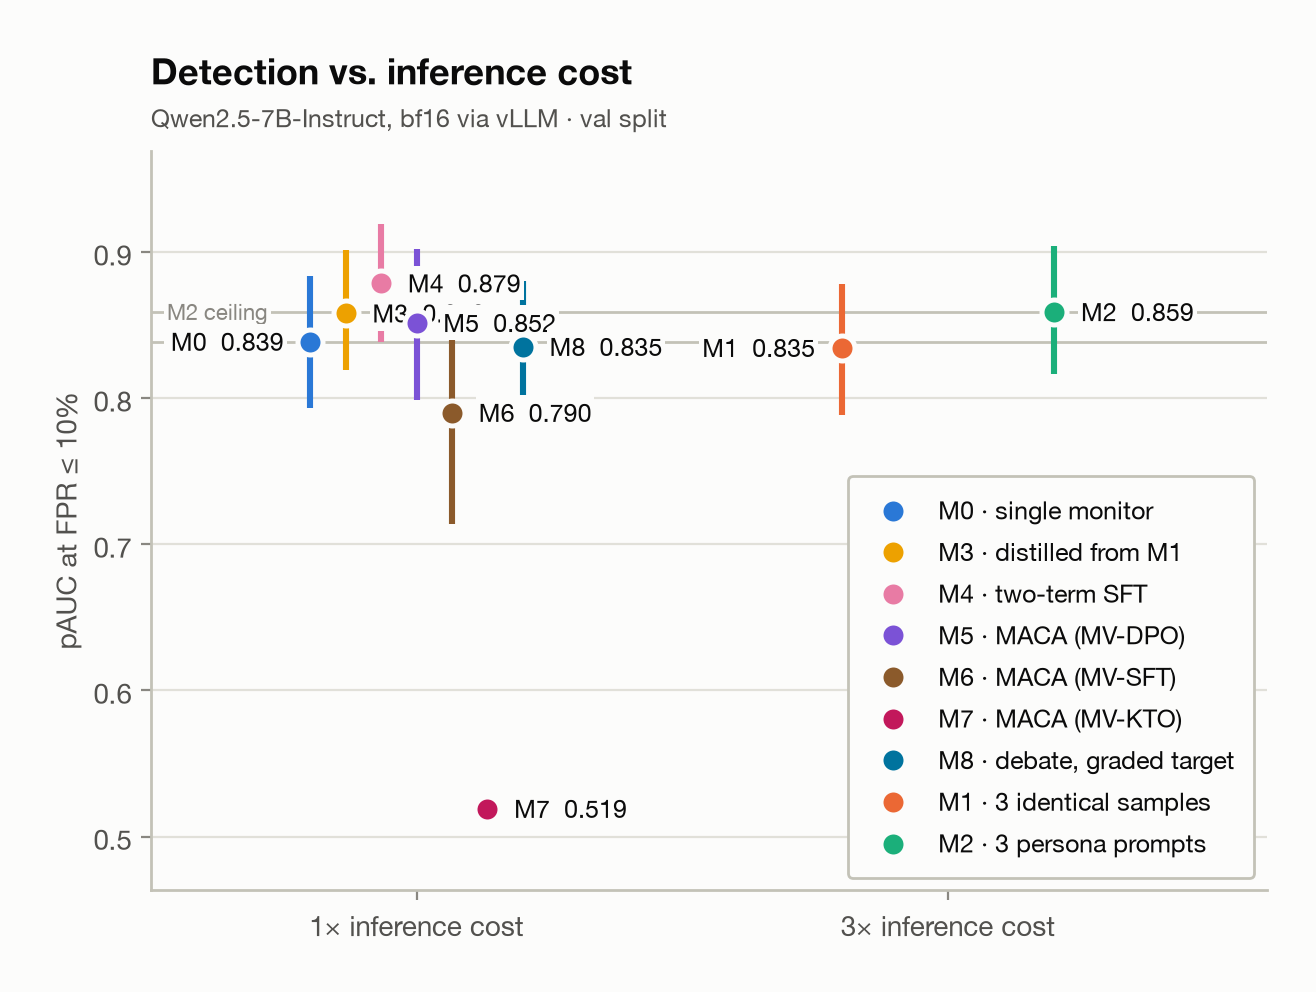
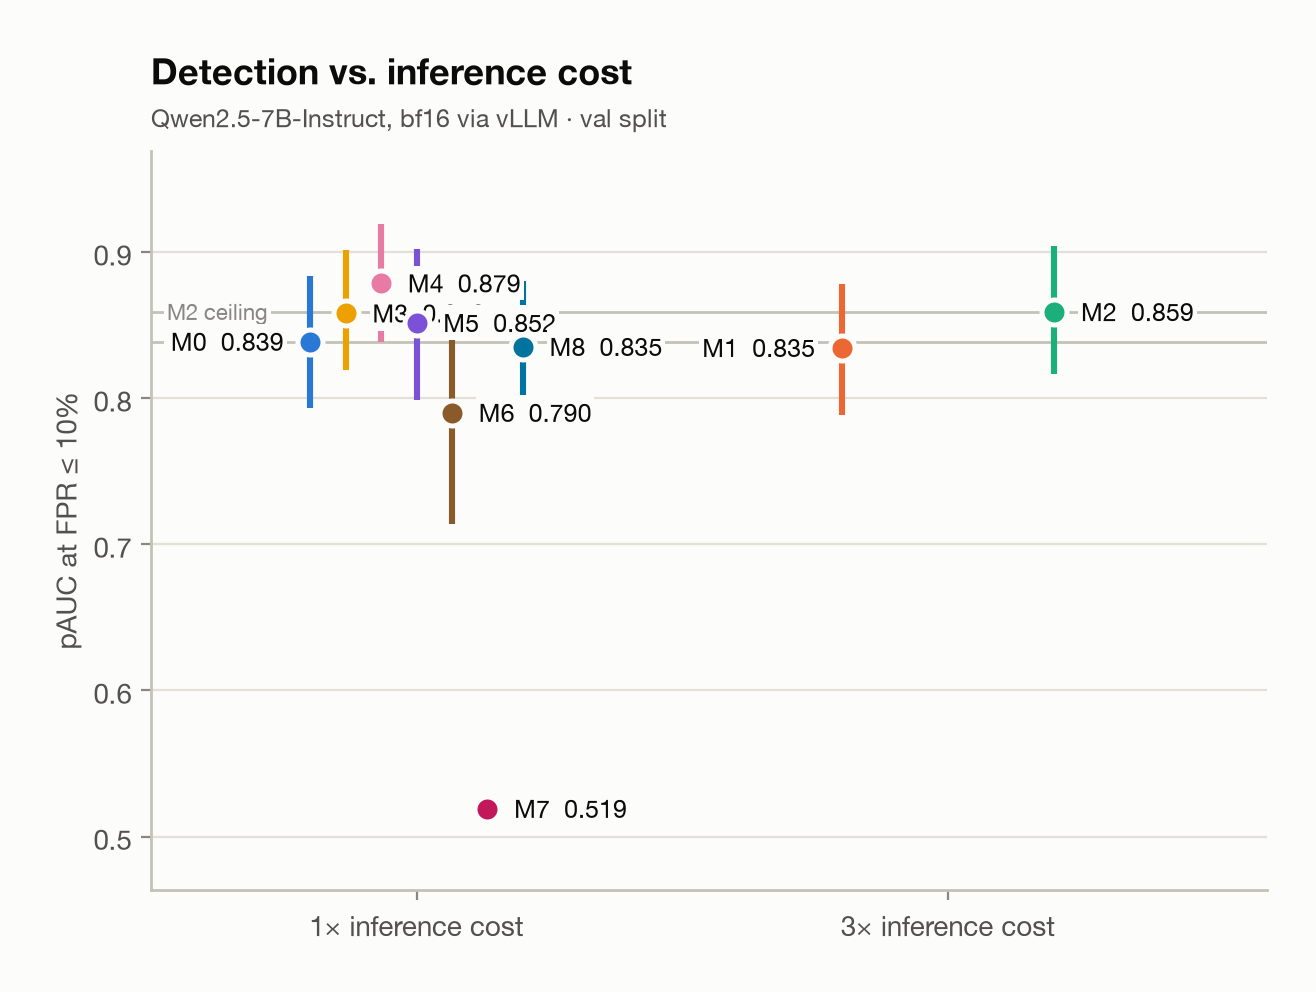
Cut the frontier to five headline arms for the write-up
Nine arms put six points in the 1x column, which buries the chart's one
comparison. The headline variant keeps both ensembles at 3x, the floor,
the winner and the published recipe -- the arms that make the "1x
reaches the 3x ceiling" claim. The other four belong to sections that
have their own figures.

The full nine-arm chart is still generated for the report, and the
subset prints "5 of 9 arms shown · full chart in the report" on its own
subtitle, since the figure travels into write-ups alone and a silent
subset would read as selection.

diff --git a/src/figures.py b/src/figures.py
@@ -78,6 +78,12 @@ ROC_PANELS = (
     ("Does MACA's vote survive distillation?", ("m5", "m7", "m8")),
 )
 
+#: The frontier's one job is "1x reaches the 3x ceiling". These five arms make
+#: that comparison and nothing else: both ensembles at 3x, the floor, the
+#: winner, and the published recipe it is contrasted with. Every other arm
+#: belongs to a later section that has its own figure.
+HEADLINE_ARMS = ("m0", "m1", "m2", "m4", "m5")
+
 #: Diverging pair for the ingredient-cost chart: gains and losses need opposite
 #: poles with a neutral zero, never one hue ramped by size.
 COST_GAIN = "#00739e"
@@ -650,7 +656,10 @@ def plot_metric_intervals(
 
 
 def plot_frontier(
-    summaries: dict[str, dict[str, Any]], path: Path, context: str
+    summaries: dict[str, dict[str, Any]],
+    path: Path,
+    context: str,
+    arms: Sequence[str] | None = None,
 ) -> Path:
     """Draw pAUC against inference cost -- the experiment's main figure.
 
@@ -662,11 +671,23 @@ def plot_frontier(
         summaries: Primary ``summarize`` rows keyed by arm.
         path: Destination file.
         context: Setup and slice description.
+        arms: Restrict to these arms, in ``HEADLINE_ARMS`` style. ``None``
+            draws every scored arm, which is the full-detail view for the
+            report -- nine points put six in the 1x column and the chart stops
+            making its one comparison legible.
 
     Returns:
         ``path``.
     """
     apply_style()
+    if arms is not None:
+        shown = {a: summaries[a] for a in arms if a in summaries}
+        # Say on the figure itself that arms were left out. It travels into
+        # write-ups on its own, where a silent subset would read as selection.
+        if len(shown) < len(summaries):
+            context = (f"{context} · {len(shown)} of {len(summaries)} arms shown"
+                       " · full chart in the report")
+        summaries = shown
     fig, ax = plt.subplots(figsize=(7.2, 4.8))
     positions = {1: 0.0, 3: 1.0}
     by_cost: dict[int, list[str]] = {}
@@ -937,12 +958,18 @@ def render_all(
     if len(primary) >= 2:
         metrics = plot_metric_intervals(primary_rows, out_dir / "metrics.png", context)
         frontier = plot_frontier(primary_rows, out_dir / "frontier.png", context)
+        headline = plot_frontier(
+            primary_rows, out_dir / "frontier_headline.png", context,
+            arms=HEADLINE_ARMS,
+        )
         comparison += [
             (f"figures/{metrics.name}",
              "pAUC and AUROC per arm with 95% bootstrap intervals."),
+            (f"figures/{headline.name}",
+             "pAUC against inference cost, headline arms only: does a 1× "
+             "trained arm reach the 3× ceiling?"),
             (f"figures/{frontier.name}",
-             "pAUC against inference cost. The question is whether a 1× trained "
-             "arm reaches the M2 ceiling."),
+             "The same chart with every arm, as the full-detail view."),
         ]
 
     if comparison:

diff --git a/results/test/report.md b/results/test/report.md
@@ -1,6 +1,6 @@
 # Monitor distillation results — test split
 
-**Setup:** Qwen2.5-7B-Instruct, bf16 via vLLM · **Arms scored:** M0, M1, M2, M3, M4, M5, M6, M7, M8 · **Generated:** 2026-09-21 17:31 · commit `b874ac9` with uncommitted changes
+**Setup:** Qwen2.5-7B-Instruct, bf16 via vLLM · **Arms scored:** M0, M1, M2, M3, M4, M5, M6, M7, M8 · **Generated:** 2026-09-25 16:32 · commit `9fa005c` with uncommitted changes
 
 ## Summary
 
@@ -120,9 +120,13 @@ Both arms scored on the same items. ΔpAUC from a paired bootstrap; ΔAUROC and 
 
 *pAUC and AUROC per arm with 95% bootstrap intervals.*
 
-![pAUC against inference cost. The question is whether a 1× trained arm reaches the M2 ceiling.](figures/frontier.png)
+![pAUC against inference cost, headline arms only: does a 1× trained arm reach the 3× ceiling?](figures/frontier_headline.png)
 
-*pAUC against inference cost. The question is whether a 1× trained arm reaches the M2 ceiling.*
+*pAUC against inference cost, headline arms only: does a 1× trained arm reach the 3× ceiling?*
+
+![The same chart with every arm, as the full-detail view.](figures/frontier.png)
+
+*The same chart with every arm, as the full-detail view.*
 
 
 ## Each arm

diff --git a/results/val/report.md b/results/val/report.md
@@ -1,6 +1,6 @@
 # Monitor distillation results — val split
 
-**Setup:** Qwen2.5-7B-Instruct, bf16 via vLLM · **Arms scored:** M0, M1, M2, M3, M4, M5, M6, M7, M8 · **Generated:** 2026-09-21 17:16 · commit `528019f` with uncommitted changes
+**Setup:** Qwen2.5-7B-Instruct, bf16 via vLLM · **Arms scored:** M0, M1, M2, M3, M4, M5, M6, M7, M8 · **Generated:** 2026-09-25 16:33 · commit `9fa005c` with uncommitted changes
 
 ## Summary
 
@@ -118,9 +118,13 @@ Both arms scored on the same items. ΔpAUC from a paired bootstrap; ΔAUROC and 
 
 *pAUC and AUROC per arm with 95% bootstrap intervals.*
 
-![pAUC against inference cost. The question is whether a 1× trained arm reaches the M2 ceiling.](figures/frontier.png)
+![pAUC against inference cost, headline arms only: does a 1× trained arm reach the 3× ceiling?](figures/frontier_headline.png)
 
-*pAUC against inference cost. The question is whether a 1× trained arm reaches the M2 ceiling.*
+*pAUC against inference cost, headline arms only: does a 1× trained arm reach the 3× ceiling?*
+
+![The same chart with every arm, as the full-detail view.](figures/frontier.png)
+
+*The same chart with every arm, as the full-detail view.*
 
 
 ## Each arm

diff --git a/docs/blog-draft.md b/docs/blog-draft.md
@@ -46,10 +46,11 @@ an answer key.
 
 ## Result 1: distillation works
 
-![Detection vs inference cost](../results/test/figures/frontier.png)
+![Detection vs inference cost](../results/test/figures/frontier_headline.png)
 
 Everything in the left column costs **1×**. The grey line is the 3× ensemble's
-score. **M4 — one model, one call — sits above it.**
+score. **M4 — one model, one call — sits above it.** (Five arms shown; the
+other four belong to the sections below.)
 
 - M4 0.810 vs M0 0.709: **+0.101** [+0.066, +0.135]
 - M4 vs M2, the 3× teacher: **+0.031** [−0.000, +0.061]
